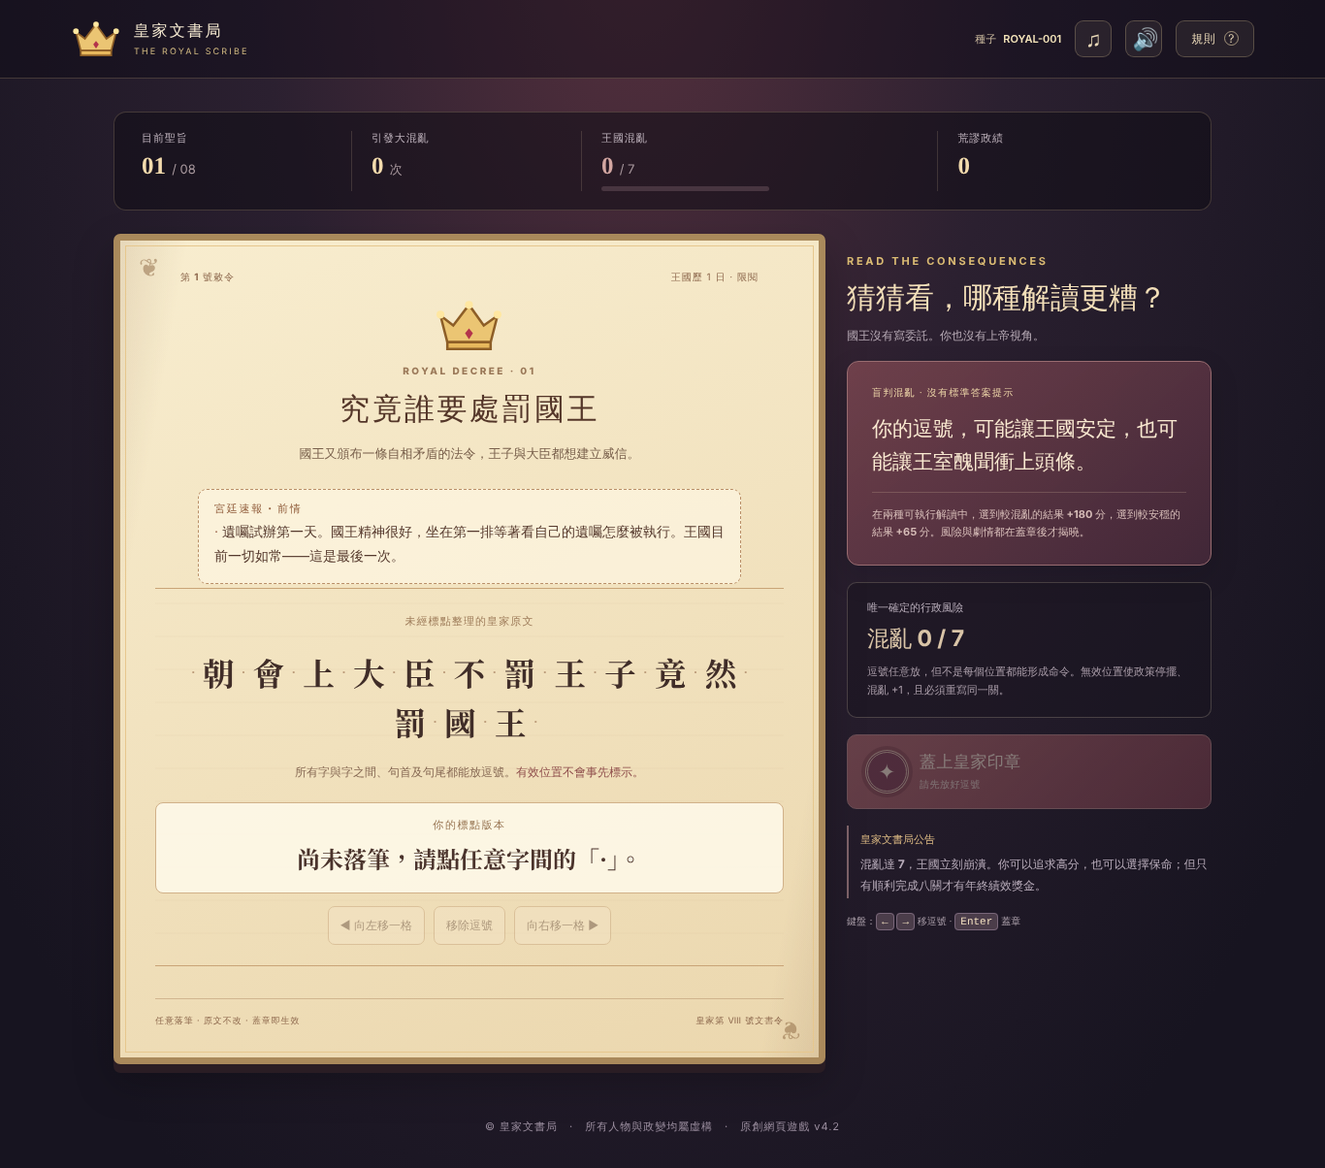
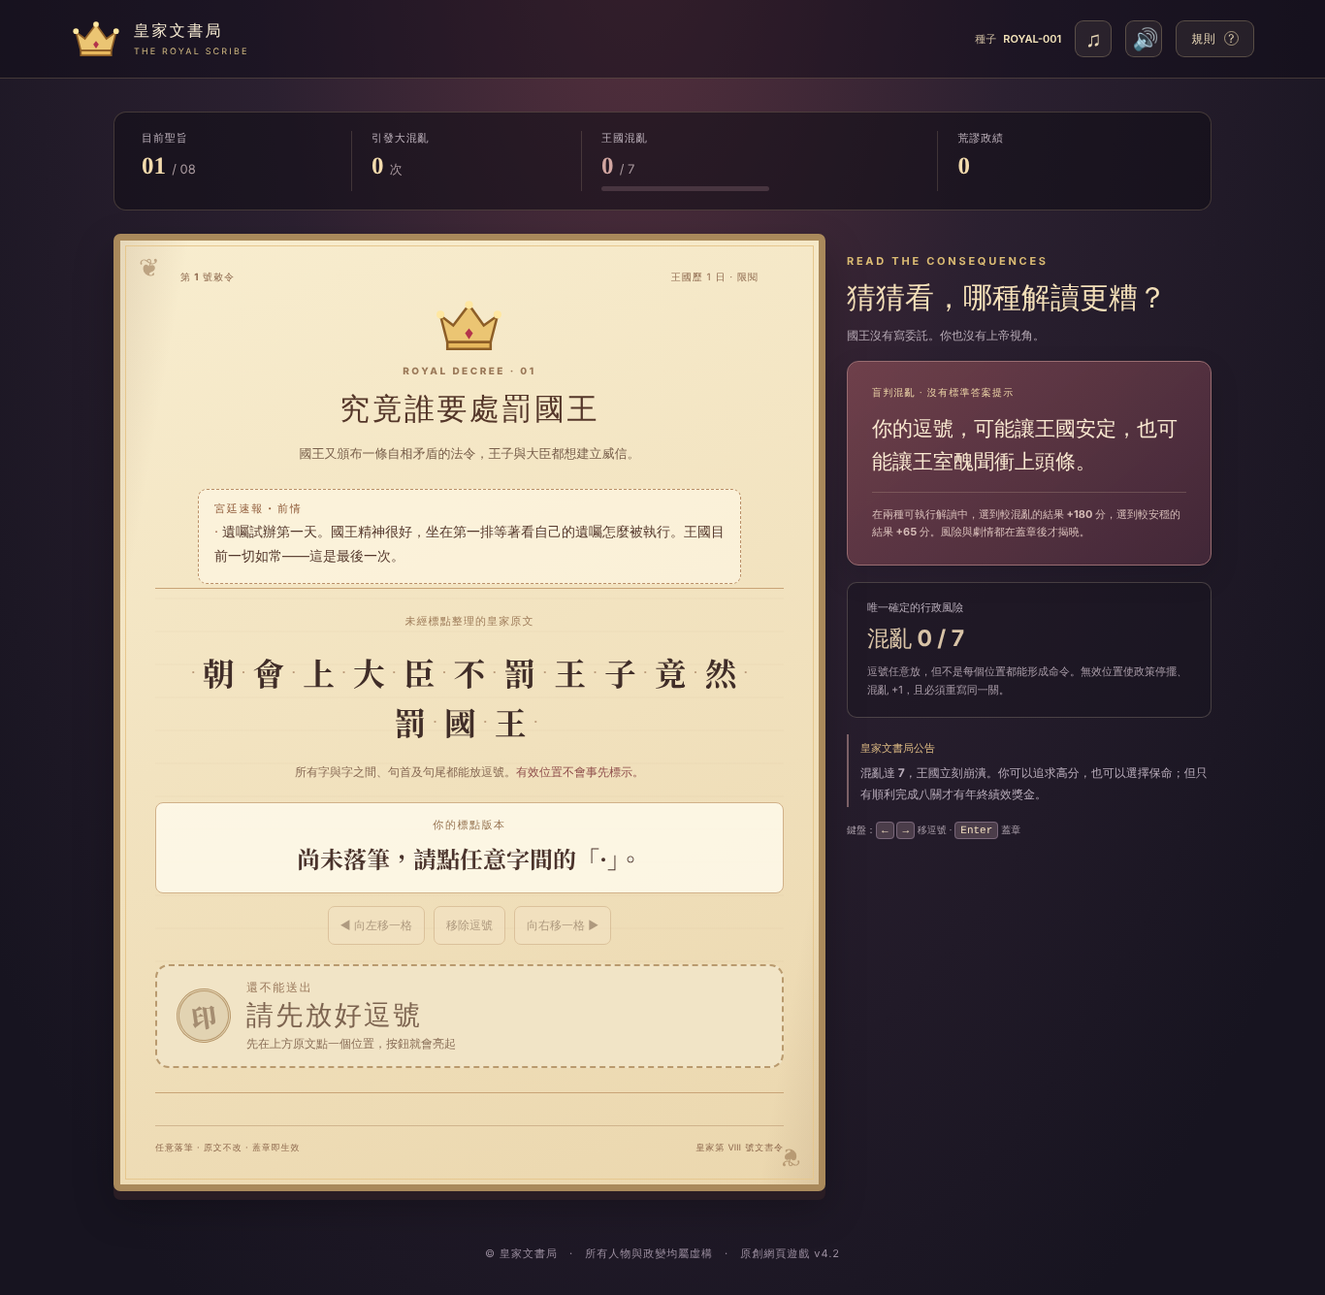
蓋章按鈕改為原文下方的全寬主要按鈕「蓋章送出」
Claude-Session: https://claude.ai/code/session_017AyoEw9kdU8t9yTFXtWbwR

diff --git a/dist/index.html b/dist/index.html
@@ -139,6 +139,35 @@
 .chapter-entry__tag{font-size:12px;letter-spacing:.12em;color:#ffd49c;font-weight:800}
 .chapter-next{max-width:560px;margin:18px auto 4px;text-align:left}
 .chapter-guild .parchment{background:linear-gradient(100deg,rgba(88,104,72,.14) 0%,transparent 8%,transparent 93%,rgba(60,78,52,.10) 100%),linear-gradient(160deg,#f3efd2,#e2dcb1 100%);border-color:#8e8a55}
+
+/* v4.2.1: the stamp is THE submit action — big, high contrast, under the sentence, clear disabled state. */
+.stamp-cta{display:flex;align-items:center;gap:16px;width:100%;margin:20px 0 4px;padding:14px 20px;border-radius:14px;border:3px solid #6b2030;background:linear-gradient(180deg,#c94a58 0%,#9a2b3c 100%);color:#fff6e0;box-shadow:0 6px 0 #5a1a26,0 14px 26px rgba(90,26,38,.35);cursor:pointer;font:inherit;text-align:left;transition:transform .1s,box-shadow .1s,filter .15s;position:relative}
+.stamp-cta:hover:not(:disabled){filter:brightness(1.08);transform:translateY(-2px);box-shadow:0 8px 0 #5a1a26,0 18px 30px rgba(90,26,38,.4)}
+.stamp-cta:active:not(:disabled){transform:translateY(4px);box-shadow:0 2px 0 #5a1a26,0 6px 12px rgba(90,26,38,.3)}
+.stamp-cta:focus-visible{outline:4px solid #f0c060;outline-offset:3px}
+.stamp-cta__seal{flex:none;display:grid;place-items:center;width:56px;height:56px;border-radius:50%;background:radial-gradient(circle at 35% 30%,#ffe7a6,#d9a441 60%,#a8701f);color:#6b2030;font:900 26px 'Noto Serif TC','PMingLiU',serif;border:3px double #7a4a12;box-shadow:0 3px 6px rgba(0,0,0,.3);transform:rotate(-8deg)}
+.stamp-cta__text{display:flex;flex-direction:column;gap:3px;min-width:0;flex:1}
+.stamp-cta__kicker{font-size:12px;letter-spacing:.14em;font-weight:800;color:#ffd9a0}
+.stamp-cta__main{font-size:clamp(22px,2.6vw,28px);line-height:1.2;letter-spacing:.08em}
+.stamp-cta__sub{font-size:12px;color:#ffe8d0;line-height:1.5;overflow-wrap:anywhere}
+.stamp-cta__key{flex:none;padding:5px 9px;border-radius:6px;border:1px solid rgba(255,230,200,.7);background:rgba(255,255,255,.14);font:700 12px ui-monospace,monospace;color:#fff6e0}
+.stamp-cta--ready::after{content:'';position:absolute;inset:-7px;border-radius:18px;border:3px solid rgba(214,74,90,.55);animation:stampPulse 1.6s ease-out infinite;pointer-events:none}
+@keyframes stampPulse{0%{opacity:.9;transform:scale(.98)}100%{opacity:0;transform:scale(1.04)}}
+.stamp-cta:disabled{cursor:not-allowed;background:#f1e4c6;border:2px dashed #b99a6e;color:#7d6450;box-shadow:none}
+.stamp-cta:disabled .stamp-cta__seal{background:#e2d3b2;color:#a48c70;border-color:#b99a6e;box-shadow:none}
+.stamp-cta:disabled .stamp-cta__kicker{color:#9b7a5d}
+.stamp-cta:disabled .stamp-cta__sub{color:#8a6f58}
+.chapter-guild .stamp-cta:not(:disabled){background:linear-gradient(180deg,#3f7a5a 0%,#25553d 100%);border-color:#1d4430;box-shadow:0 6px 0 #173726,0 14px 26px rgba(23,55,38,.35)}
+.chapter-guild .stamp-cta--ready::after{border-color:rgba(63,122,90,.55)}
+@media (max-width:860px){
+  .stamp-cta{position:fixed;left:12px;right:12px;bottom:max(12px,env(safe-area-inset-bottom));z-index:20;width:auto;margin:0;padding:10px 14px;gap:12px;box-shadow:0 6px 0 #5a1a26,0 12px 30px rgba(0,0,0,.5)}
+  .stamp-cta:disabled{box-shadow:0 10px 26px rgba(0,0,0,.45)}
+  .stamp-cta__seal{width:44px;height:44px;font-size:21px}
+  .stamp-cta__main{font-size:21px}
+  .stamp-cta__key{display:none}
+  .game-page{padding-bottom:128px}
+}
+@media (prefers-reduced-motion:reduce){.stamp-cta--ready::after{animation:none;opacity:.6}.stamp-cta{transition:none}}
 </style>
 </head>
 <body>
@@ -1101,11 +1130,16 @@ function makeChronicle(game){
     if(!chains.length)return '';
     return `<section class="chain-reaction" aria-label="連鎖反應"><span class="chain-reaction__label">${U().chain}</span>${chains.map(c=>`<div class="chain-reaction__item"><h4>${escapeHtml(c.title)}</h4><p>${escapeHtml(c.judgment)}</p></div>`).join('')}</section>`;
   }
+  /* The one "submit" action: big, high-contrast, placed right under the player's sentence. */
+  function stampButton(preview,position) {
+    const u=U(),ready=position!==null;
+    return `<button type="button" class="stamp-cta ${ready?'stamp-cta--ready':''}" data-action="judge" ${ready?'':'disabled'} aria-describedby="stamp-hint"><span class="stamp-cta__seal" aria-hidden="true">印</span><span class="stamp-cta__text"><small class="stamp-cta__kicker">${ready?'最後一步・確定送出':'還不能送出'}</small><strong class="stamp-cta__main">${ready?'蓋章送出':u.stampEmpty}</strong><small class="stamp-cta__sub" id="stamp-hint">${ready?`${u.stamp}，執行「${escapeHtml(preview)}」・不可反悔`:'先在上方原文點一個位置，按鈕就會亮起'}</small></span>${ready?'<kbd class="stamp-cta__key" aria-hidden="true">Enter</kbd>':''}</button>`;
+  }
   function gameplay() {
     const level=getCurrentLevel(state,DATA()),u=U(),n=state.round+1;
     const position=state.selectedPosition;
     const preview=position===null?u.previewEmpty:insertMark(level.raw,position,state.selectedMark??'，');
-    return `<main class="game-page chapter-${state.chapter}">${statusHud()}<div class="game-layout"><section class="parchment"><div class="parchment__top"><span class="scroll-tag">${u.tag(n)}</span><span>${u.date(n)}</span></div><div class="royal-insignia">${CH().insignia}</div><p class="scroll-kicker">${u.kicker} · ${String(n).padStart(2,'0')}</p><h2 class="stage-title">${escapeHtml(level.title)}</h2><p class="stage-context">${escapeHtml(level.context)}</p>${briefingCard(level)}<div class="decree-box"><div class="decree-caption">${u.caption}</div>${markPicker()}${sentenceSlots(level)}<div class="decree-instruction">${u.instruction}</div><div class="punctuation-preview" aria-live="polite"><span>你的標點版本</span><strong>${escapeHtml(preview)}</strong></div><div class="comma-nav"><button type="button" data-action="shift" data-offset="-1" ${position===null||position===0?'disabled':''}>◀ 向左移一格</button><button type="button" data-action="clear" ${position===null?'disabled':''}>${u.clear}</button><button type="button" data-action="shift" data-offset="1" ${position===null||position===Array.from(level.raw).length?'disabled':''}>向右移一格 ▶</button></div></div><div class="scroll-footer"><span>${u.footerL}</span><span>${u.footerR}</span></div></section><aside class="mission-panel"><div class="mission-head"><span class="section-eyebrow">READ THE CONSEQUENCES</span><h3>猜猜看，哪種解讀更糟？</h3><p>${u.missionP}</p></div><div class="mission-card"><div class="mission-card__badge">盲判混亂 · 沒有標準答案提示</div><p>${u.missionCard}</p><small>在兩種可執行解讀中，選到<b>較混亂的結果 +180 分</b>，選到<b>較安穩的結果 +65 分</b>。風險與劇情都在蓋章後才揭曉。</small></div><div class="risk-card"><span>唯一確定的行政風險</span><strong>${u.chaosWord} ${state.chaos} / ${state.settings.chaosLoseAt}</strong><small>${u.riskSmall(state.settings.invalidChaosPenalty)}</small></div><button class="btn btn--stamp" data-action="judge" ${position===null?'disabled':''}><span class="wax-mini">✦</span><span>${u.stamp} <small>${position===null?u.stampEmpty:`${escapeHtml(preview)}・不得反悔`}</small></span></button><div class="aside-note"><b>${u.asideTitle}</b><p>${u.asideP}</p></div><div class="keyboard-help">${u.keys}</div></aside></div></main>`;
+    return `<main class="game-page chapter-${state.chapter}">${statusHud()}<div class="game-layout"><section class="parchment"><div class="parchment__top"><span class="scroll-tag">${u.tag(n)}</span><span>${u.date(n)}</span></div><div class="royal-insignia">${CH().insignia}</div><p class="scroll-kicker">${u.kicker} · ${String(n).padStart(2,'0')}</p><h2 class="stage-title">${escapeHtml(level.title)}</h2><p class="stage-context">${escapeHtml(level.context)}</p>${briefingCard(level)}<div class="decree-box"><div class="decree-caption">${u.caption}</div>${markPicker()}${sentenceSlots(level)}<div class="decree-instruction">${u.instruction}</div><div class="punctuation-preview" aria-live="polite"><span>你的標點版本</span><strong>${escapeHtml(preview)}</strong></div><div class="comma-nav"><button type="button" data-action="shift" data-offset="-1" ${position===null||position===0?'disabled':''}>◀ 向左移一格</button><button type="button" data-action="clear" ${position===null?'disabled':''}>${u.clear}</button><button type="button" data-action="shift" data-offset="1" ${position===null||position===Array.from(level.raw).length?'disabled':''}>向右移一格 ▶</button></div>${stampButton(preview,position)}</div><div class="scroll-footer"><span>${u.footerL}</span><span>${u.footerR}</span></div></section><aside class="mission-panel"><div class="mission-head"><span class="section-eyebrow">READ THE CONSEQUENCES</span><h3>猜猜看，哪種解讀更糟？</h3><p>${u.missionP}</p></div><div class="mission-card"><div class="mission-card__badge">盲判混亂 · 沒有標準答案提示</div><p>${u.missionCard}</p><small>在兩種可執行解讀中，選到<b>較混亂的結果 +180 分</b>，選到<b>較安穩的結果 +65 分</b>。風險與劇情都在蓋章後才揭曉。</small></div><div class="risk-card"><span>唯一確定的行政風險</span><strong>${u.chaosWord} ${state.chaos} / ${state.settings.chaosLoseAt}</strong><small>${u.riskSmall(state.settings.invalidChaosPenalty)}</small></div><div class="aside-note"><b>${u.asideTitle}</b><p>${u.asideP}</p></div><div class="keyboard-help">${u.keys}</div></aside></div></main>`;
   }
   function judgment() {
     const entry=state.history.at(-1),terminal=state.endingReason,invalid=!entry.valid,u=U();

diff --git a/國王的遺囑_可玩版.html b/國王的遺囑_可玩版.html
@@ -139,6 +139,35 @@
 .chapter-entry__tag{font-size:12px;letter-spacing:.12em;color:#ffd49c;font-weight:800}
 .chapter-next{max-width:560px;margin:18px auto 4px;text-align:left}
 .chapter-guild .parchment{background:linear-gradient(100deg,rgba(88,104,72,.14) 0%,transparent 8%,transparent 93%,rgba(60,78,52,.10) 100%),linear-gradient(160deg,#f3efd2,#e2dcb1 100%);border-color:#8e8a55}
+
+/* v4.2.1: the stamp is THE submit action — big, high contrast, under the sentence, clear disabled state. */
+.stamp-cta{display:flex;align-items:center;gap:16px;width:100%;margin:20px 0 4px;padding:14px 20px;border-radius:14px;border:3px solid #6b2030;background:linear-gradient(180deg,#c94a58 0%,#9a2b3c 100%);color:#fff6e0;box-shadow:0 6px 0 #5a1a26,0 14px 26px rgba(90,26,38,.35);cursor:pointer;font:inherit;text-align:left;transition:transform .1s,box-shadow .1s,filter .15s;position:relative}
+.stamp-cta:hover:not(:disabled){filter:brightness(1.08);transform:translateY(-2px);box-shadow:0 8px 0 #5a1a26,0 18px 30px rgba(90,26,38,.4)}
+.stamp-cta:active:not(:disabled){transform:translateY(4px);box-shadow:0 2px 0 #5a1a26,0 6px 12px rgba(90,26,38,.3)}
+.stamp-cta:focus-visible{outline:4px solid #f0c060;outline-offset:3px}
+.stamp-cta__seal{flex:none;display:grid;place-items:center;width:56px;height:56px;border-radius:50%;background:radial-gradient(circle at 35% 30%,#ffe7a6,#d9a441 60%,#a8701f);color:#6b2030;font:900 26px 'Noto Serif TC','PMingLiU',serif;border:3px double #7a4a12;box-shadow:0 3px 6px rgba(0,0,0,.3);transform:rotate(-8deg)}
+.stamp-cta__text{display:flex;flex-direction:column;gap:3px;min-width:0;flex:1}
+.stamp-cta__kicker{font-size:12px;letter-spacing:.14em;font-weight:800;color:#ffd9a0}
+.stamp-cta__main{font-size:clamp(22px,2.6vw,28px);line-height:1.2;letter-spacing:.08em}
+.stamp-cta__sub{font-size:12px;color:#ffe8d0;line-height:1.5;overflow-wrap:anywhere}
+.stamp-cta__key{flex:none;padding:5px 9px;border-radius:6px;border:1px solid rgba(255,230,200,.7);background:rgba(255,255,255,.14);font:700 12px ui-monospace,monospace;color:#fff6e0}
+.stamp-cta--ready::after{content:'';position:absolute;inset:-7px;border-radius:18px;border:3px solid rgba(214,74,90,.55);animation:stampPulse 1.6s ease-out infinite;pointer-events:none}
+@keyframes stampPulse{0%{opacity:.9;transform:scale(.98)}100%{opacity:0;transform:scale(1.04)}}
+.stamp-cta:disabled{cursor:not-allowed;background:#f1e4c6;border:2px dashed #b99a6e;color:#7d6450;box-shadow:none}
+.stamp-cta:disabled .stamp-cta__seal{background:#e2d3b2;color:#a48c70;border-color:#b99a6e;box-shadow:none}
+.stamp-cta:disabled .stamp-cta__kicker{color:#9b7a5d}
+.stamp-cta:disabled .stamp-cta__sub{color:#8a6f58}
+.chapter-guild .stamp-cta:not(:disabled){background:linear-gradient(180deg,#3f7a5a 0%,#25553d 100%);border-color:#1d4430;box-shadow:0 6px 0 #173726,0 14px 26px rgba(23,55,38,.35)}
+.chapter-guild .stamp-cta--ready::after{border-color:rgba(63,122,90,.55)}
+@media (max-width:860px){
+  .stamp-cta{position:fixed;left:12px;right:12px;bottom:max(12px,env(safe-area-inset-bottom));z-index:20;width:auto;margin:0;padding:10px 14px;gap:12px;box-shadow:0 6px 0 #5a1a26,0 12px 30px rgba(0,0,0,.5)}
+  .stamp-cta:disabled{box-shadow:0 10px 26px rgba(0,0,0,.45)}
+  .stamp-cta__seal{width:44px;height:44px;font-size:21px}
+  .stamp-cta__main{font-size:21px}
+  .stamp-cta__key{display:none}
+  .game-page{padding-bottom:128px}
+}
+@media (prefers-reduced-motion:reduce){.stamp-cta--ready::after{animation:none;opacity:.6}.stamp-cta{transition:none}}
 </style>
 </head>
 <body>
@@ -1101,11 +1130,16 @@ function makeChronicle(game){
     if(!chains.length)return '';
     return `<section class="chain-reaction" aria-label="連鎖反應"><span class="chain-reaction__label">${U().chain}</span>${chains.map(c=>`<div class="chain-reaction__item"><h4>${escapeHtml(c.title)}</h4><p>${escapeHtml(c.judgment)}</p></div>`).join('')}</section>`;
   }
+  /* The one "submit" action: big, high-contrast, placed right under the player's sentence. */
+  function stampButton(preview,position) {
+    const u=U(),ready=position!==null;
+    return `<button type="button" class="stamp-cta ${ready?'stamp-cta--ready':''}" data-action="judge" ${ready?'':'disabled'} aria-describedby="stamp-hint"><span class="stamp-cta__seal" aria-hidden="true">印</span><span class="stamp-cta__text"><small class="stamp-cta__kicker">${ready?'最後一步・確定送出':'還不能送出'}</small><strong class="stamp-cta__main">${ready?'蓋章送出':u.stampEmpty}</strong><small class="stamp-cta__sub" id="stamp-hint">${ready?`${u.stamp}，執行「${escapeHtml(preview)}」・不可反悔`:'先在上方原文點一個位置，按鈕就會亮起'}</small></span>${ready?'<kbd class="stamp-cta__key" aria-hidden="true">Enter</kbd>':''}</button>`;
+  }
   function gameplay() {
     const level=getCurrentLevel(state,DATA()),u=U(),n=state.round+1;
     const position=state.selectedPosition;
     const preview=position===null?u.previewEmpty:insertMark(level.raw,position,state.selectedMark??'，');
-    return `<main class="game-page chapter-${state.chapter}">${statusHud()}<div class="game-layout"><section class="parchment"><div class="parchment__top"><span class="scroll-tag">${u.tag(n)}</span><span>${u.date(n)}</span></div><div class="royal-insignia">${CH().insignia}</div><p class="scroll-kicker">${u.kicker} · ${String(n).padStart(2,'0')}</p><h2 class="stage-title">${escapeHtml(level.title)}</h2><p class="stage-context">${escapeHtml(level.context)}</p>${briefingCard(level)}<div class="decree-box"><div class="decree-caption">${u.caption}</div>${markPicker()}${sentenceSlots(level)}<div class="decree-instruction">${u.instruction}</div><div class="punctuation-preview" aria-live="polite"><span>你的標點版本</span><strong>${escapeHtml(preview)}</strong></div><div class="comma-nav"><button type="button" data-action="shift" data-offset="-1" ${position===null||position===0?'disabled':''}>◀ 向左移一格</button><button type="button" data-action="clear" ${position===null?'disabled':''}>${u.clear}</button><button type="button" data-action="shift" data-offset="1" ${position===null||position===Array.from(level.raw).length?'disabled':''}>向右移一格 ▶</button></div></div><div class="scroll-footer"><span>${u.footerL}</span><span>${u.footerR}</span></div></section><aside class="mission-panel"><div class="mission-head"><span class="section-eyebrow">READ THE CONSEQUENCES</span><h3>猜猜看，哪種解讀更糟？</h3><p>${u.missionP}</p></div><div class="mission-card"><div class="mission-card__badge">盲判混亂 · 沒有標準答案提示</div><p>${u.missionCard}</p><small>在兩種可執行解讀中，選到<b>較混亂的結果 +180 分</b>，選到<b>較安穩的結果 +65 分</b>。風險與劇情都在蓋章後才揭曉。</small></div><div class="risk-card"><span>唯一確定的行政風險</span><strong>${u.chaosWord} ${state.chaos} / ${state.settings.chaosLoseAt}</strong><small>${u.riskSmall(state.settings.invalidChaosPenalty)}</small></div><button class="btn btn--stamp" data-action="judge" ${position===null?'disabled':''}><span class="wax-mini">✦</span><span>${u.stamp} <small>${position===null?u.stampEmpty:`${escapeHtml(preview)}・不得反悔`}</small></span></button><div class="aside-note"><b>${u.asideTitle}</b><p>${u.asideP}</p></div><div class="keyboard-help">${u.keys}</div></aside></div></main>`;
+    return `<main class="game-page chapter-${state.chapter}">${statusHud()}<div class="game-layout"><section class="parchment"><div class="parchment__top"><span class="scroll-tag">${u.tag(n)}</span><span>${u.date(n)}</span></div><div class="royal-insignia">${CH().insignia}</div><p class="scroll-kicker">${u.kicker} · ${String(n).padStart(2,'0')}</p><h2 class="stage-title">${escapeHtml(level.title)}</h2><p class="stage-context">${escapeHtml(level.context)}</p>${briefingCard(level)}<div class="decree-box"><div class="decree-caption">${u.caption}</div>${markPicker()}${sentenceSlots(level)}<div class="decree-instruction">${u.instruction}</div><div class="punctuation-preview" aria-live="polite"><span>你的標點版本</span><strong>${escapeHtml(preview)}</strong></div><div class="comma-nav"><button type="button" data-action="shift" data-offset="-1" ${position===null||position===0?'disabled':''}>◀ 向左移一格</button><button type="button" data-action="clear" ${position===null?'disabled':''}>${u.clear}</button><button type="button" data-action="shift" data-offset="1" ${position===null||position===Array.from(level.raw).length?'disabled':''}>向右移一格 ▶</button></div>${stampButton(preview,position)}</div><div class="scroll-footer"><span>${u.footerL}</span><span>${u.footerR}</span></div></section><aside class="mission-panel"><div class="mission-head"><span class="section-eyebrow">READ THE CONSEQUENCES</span><h3>猜猜看，哪種解讀更糟？</h3><p>${u.missionP}</p></div><div class="mission-card"><div class="mission-card__badge">盲判混亂 · 沒有標準答案提示</div><p>${u.missionCard}</p><small>在兩種可執行解讀中，選到<b>較混亂的結果 +180 分</b>，選到<b>較安穩的結果 +65 分</b>。風險與劇情都在蓋章後才揭曉。</small></div><div class="risk-card"><span>唯一確定的行政風險</span><strong>${u.chaosWord} ${state.chaos} / ${state.settings.chaosLoseAt}</strong><small>${u.riskSmall(state.settings.invalidChaosPenalty)}</small></div><div class="aside-note"><b>${u.asideTitle}</b><p>${u.asideP}</p></div><div class="keyboard-help">${u.keys}</div></aside></div></main>`;
   }
   function judgment() {
     const entry=state.history.at(-1),terminal=state.endingReason,invalid=!entry.valid,u=U();

diff --git a/src/styles.css b/src/styles.css
@@ -131,3 +131,32 @@
 .chapter-entry__tag{font-size:12px;letter-spacing:.12em;color:#ffd49c;font-weight:800}
 .chapter-next{max-width:560px;margin:18px auto 4px;text-align:left}
 .chapter-guild .parchment{background:linear-gradient(100deg,rgba(88,104,72,.14) 0%,transparent 8%,transparent 93%,rgba(60,78,52,.10) 100%),linear-gradient(160deg,#f3efd2,#e2dcb1 100%);border-color:#8e8a55}
+
+/* v4.2.1: the stamp is THE submit action — big, high contrast, under the sentence, clear disabled state. */
+.stamp-cta{display:flex;align-items:center;gap:16px;width:100%;margin:20px 0 4px;padding:14px 20px;border-radius:14px;border:3px solid #6b2030;background:linear-gradient(180deg,#c94a58 0%,#9a2b3c 100%);color:#fff6e0;box-shadow:0 6px 0 #5a1a26,0 14px 26px rgba(90,26,38,.35);cursor:pointer;font:inherit;text-align:left;transition:transform .1s,box-shadow .1s,filter .15s;position:relative}
+.stamp-cta:hover:not(:disabled){filter:brightness(1.08);transform:translateY(-2px);box-shadow:0 8px 0 #5a1a26,0 18px 30px rgba(90,26,38,.4)}
+.stamp-cta:active:not(:disabled){transform:translateY(4px);box-shadow:0 2px 0 #5a1a26,0 6px 12px rgba(90,26,38,.3)}
+.stamp-cta:focus-visible{outline:4px solid #f0c060;outline-offset:3px}
+.stamp-cta__seal{flex:none;display:grid;place-items:center;width:56px;height:56px;border-radius:50%;background:radial-gradient(circle at 35% 30%,#ffe7a6,#d9a441 60%,#a8701f);color:#6b2030;font:900 26px 'Noto Serif TC','PMingLiU',serif;border:3px double #7a4a12;box-shadow:0 3px 6px rgba(0,0,0,.3);transform:rotate(-8deg)}
+.stamp-cta__text{display:flex;flex-direction:column;gap:3px;min-width:0;flex:1}
+.stamp-cta__kicker{font-size:12px;letter-spacing:.14em;font-weight:800;color:#ffd9a0}
+.stamp-cta__main{font-size:clamp(22px,2.6vw,28px);line-height:1.2;letter-spacing:.08em}
+.stamp-cta__sub{font-size:12px;color:#ffe8d0;line-height:1.5;overflow-wrap:anywhere}
+.stamp-cta__key{flex:none;padding:5px 9px;border-radius:6px;border:1px solid rgba(255,230,200,.7);background:rgba(255,255,255,.14);font:700 12px ui-monospace,monospace;color:#fff6e0}
+.stamp-cta--ready::after{content:'';position:absolute;inset:-7px;border-radius:18px;border:3px solid rgba(214,74,90,.55);animation:stampPulse 1.6s ease-out infinite;pointer-events:none}
+@keyframes stampPulse{0%{opacity:.9;transform:scale(.98)}100%{opacity:0;transform:scale(1.04)}}
+.stamp-cta:disabled{cursor:not-allowed;background:#f1e4c6;border:2px dashed #b99a6e;color:#7d6450;box-shadow:none}
+.stamp-cta:disabled .stamp-cta__seal{background:#e2d3b2;color:#a48c70;border-color:#b99a6e;box-shadow:none}
+.stamp-cta:disabled .stamp-cta__kicker{color:#9b7a5d}
+.stamp-cta:disabled .stamp-cta__sub{color:#8a6f58}
+.chapter-guild .stamp-cta:not(:disabled){background:linear-gradient(180deg,#3f7a5a 0%,#25553d 100%);border-color:#1d4430;box-shadow:0 6px 0 #173726,0 14px 26px rgba(23,55,38,.35)}
+.chapter-guild .stamp-cta--ready::after{border-color:rgba(63,122,90,.55)}
+@media (max-width:860px){
+  .stamp-cta{position:fixed;left:12px;right:12px;bottom:max(12px,env(safe-area-inset-bottom));z-index:20;width:auto;margin:0;padding:10px 14px;gap:12px;box-shadow:0 6px 0 #5a1a26,0 12px 30px rgba(0,0,0,.5)}
+  .stamp-cta:disabled{box-shadow:0 10px 26px rgba(0,0,0,.45)}
+  .stamp-cta__seal{width:44px;height:44px;font-size:21px}
+  .stamp-cta__main{font-size:21px}
+  .stamp-cta__key{display:none}
+  .game-page{padding-bottom:128px}
+}
+@media (prefers-reduced-motion:reduce){.stamp-cta--ready::after{animation:none;opacity:.6}.stamp-cta{transition:none}}

diff --git a/docs/PROGRESS.md b/docs/PROGRESS.md
@@ -99,3 +99,8 @@
 ## 尚未驗證
 - 第二章 6 句的語感與同義擺法是否合理，需要真人試玩。尤其要看玩家會不會覺得某些「看起來也對」的擺法被判錯。
 - 真實手機、BGM 聽感（同 v4.1）。
+
+## v4.2.1 蓋章按鈕改版（2026-10-26）
+- 原因：使用者反映「蓋上皇家印章」不夠明顯，看不出是送出鍵。
+- 修改：按鈕從右側欄移到玩家放逗號的原文正下方，改成全寬主要按鈕「蓋章送出」。按鈕上直接顯示將送出的句子與「不可反悔」，桌機版另有 Enter 提示；按鈕會輕微脈動（系統開啟減少動態效果時停用）。還沒放逗號時是虛線框「請先放好逗號／符號」，並說明怎麼讓它亮起。第二章改用綠色。手機版固定在畫面底部。
+- `npm test` 36/36 通過；`browser-verify-v4/v41/v42` 都通過；390px 沒有水平溢出。
